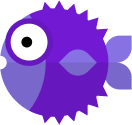
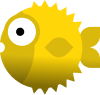
fix(SERVER): add depth

diff --git a/app.js b/app.js
@@ -19,17 +19,19 @@ class Particle {
 
         this.vy = 0;
         this.colorMap = {
-            "yellow": "yellow.png",
-            "blue": "purple.png",
-            "darkblue": "purplesick.png",
-            "darkyellow": "yellowsick.png",
-        }
-        this.colorMap = {
             background: { w: 70, h: 70},
-            yellow: { w: 122, h: 70},
-            blue: { w: 70, h: 70},
-            darkblue: { w: 70, h: 70},
-            darkyellow: { w: 122, h: 70},
+            yellow0: { w: 122, h: 70},
+            blue0: { w: 73, h: 70},
+            darkblue0: { w: 73, h: 70},
+            darkyellow0: { w: 122, h: 70},
+            yellow1: { w: 105, h: 61},
+            yellow2:{ w: 122, h: 70},
+            blue1: { w: 62, h: 60},
+            blue2: { w: 52, h: 50},
+            darkblue1: { w: 62, h: 60},
+            darkblue2:{ w: 52, h: 50},
+            darkyellow1: { w: 105, h: 61},
+            darkyellow2: { w: 122, h: 70},
         }
     }
 
@@ -40,13 +42,16 @@ class Particle {
 
     draw(context, imageCache) {
         // const img = document.createElement("img");
-        const img = imageCache.getImages().find(i => i.name === this.color);
+        const id = `${this.color}`
+        const img = imageCache.getImages().find(i => i.name === id);
         // img.src = this.colorMap[this.color]
-        context.drawImage(img.img, this.x, this.y, this.colorMap[this.color].w,  this.colorMap[this.color].h);
-        if (this.statusCode == 500) {
-            // context.lineWidth = 5;
-            // context.strokeStyle = "black";
-            // context.stroke();
+        if(img) {
+            context.drawImage(img.img, this.x, this.y, this.colorMap[id].w, this.colorMap[id].h);
+            if (this.statusCode == 500) {
+                // context.lineWidth = 5;
+                // context.strokeStyle = "black";
+                // context.stroke();
+            }
         }
     }
 }
@@ -61,7 +66,7 @@ class Chart {
         this.height = 180
         this.width = 17;
         this.colorMap = {
-            "blue": "#7719D6",
+            "blue": "#FEB202", //"#7719D6",
             "darkyellow" : "#FF0000",
             "yellow" : "#FEB202",
             "darkblue" : "#FF0000",
@@ -191,10 +196,11 @@ export class App {
         .then(function(res) {
            return res.json().then(color => ({ color, res }))
         }).then((function(res) {
+            res.colorImg = `${res.color}${Math.floor(Math.random() * 4)}`
             var receiveTime = (new Date()).getTime();
             var responseTimeMs = receiveTime - sendTime;
             let startingY = (this.canvas.height - this.chart.height - ParticleMaxSize - ArgoImageSize) * Math.random() + ArgoImageSize
-            this.particles.unshift(new Particle(this.canvas.width, startingY, res.color, res.res.status, responseTimeMs));
+            this.particles.unshift(new Particle(this.canvas.width, startingY, res.colorImg, res.res.status, responseTimeMs));
             this.particles = this.particles.slice(0, 200);
             this.chart.addColor(res.color, res.res.status);
             this.sliders.addColor(res.color)
@@ -261,7 +267,7 @@ export class Color {
         reload();
 
         this.colorMap = {
-            "blue": "#7719D6",
+            "blue": "#FEB202", //"#7719D6",
             "darkyellow" : "#FF0000",
             "yellow" : "#FEB202",
             "darkblue" : "#FF0000",

diff --git a/index.html b/index.html
@@ -59,10 +59,18 @@
   let imageCache = createImageCache();
   const dict = {
     background: './background.png',
-    yellow: "./yellow.png",
-    blue: "./purple.png",
-    darkblue: "./purplesick.png",
-    darkyellow: "./yellowsick.png",
+    yellow0: "./yellow.png",
+    yellow1: "./yellow2.png",
+    yellow2: "./yellow3.png",
+    blue0: "./purple.png",
+    blue1: "./purple1.png",
+    blue2: "./purple2.png",
+    darkblue0: "./purplesick.png",
+    darkblue1: "./purplesick2.png",
+    darkblue2: "./purplesick3.png",
+    darkyellow0: "./yellowsick.png",
+    darkyellow1: "./yellowsick1.png",
+    darkyellow2: "./yellowsick2.png",
   }
   imageCache.loadImages(dict);
   imageCache.imagesOnload(() => {
